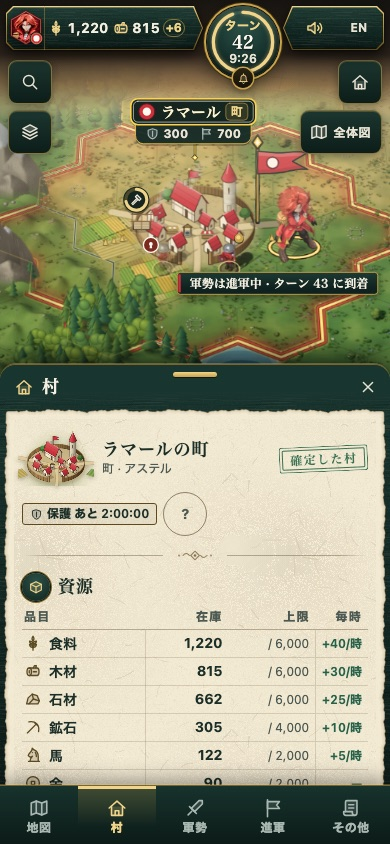
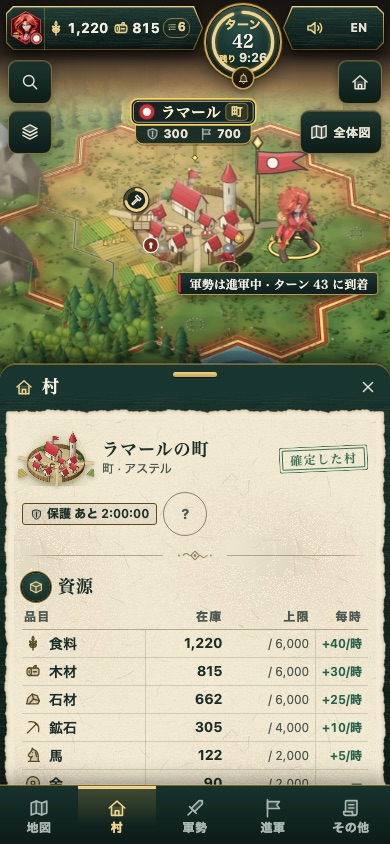
Uplift round 4: HUD, text and effects written up; gallery after-shots
07-HUD-TEXT-FX records what was changed for each of the ten ranked
findings, what turned up along the way, the checks run after the last
change (web 934, interaction 29, matrix 78, states 39, frame times as
before), and what was left open. The gallery's after-shots are from
the current client.

diff --git a/docs/design/uplift/07-HUD-TEXT-FX.ja.md b/docs/design/uplift/07-HUD-TEXT-FX.ja.md
@@ -32,4 +32,44 @@
 | 9 | ガイドの札が長く、スマホで切れる | 次にすることが読めない |
 | 10 | 資源の帯の「+3」が何かわからない | 収入か、隠れた資源か |
 
-以下、直したものと確かめたことを書き足していく。
+## 直したもの
+
+どれも【実装あり】。ルール・数・隠れた情報の扱いは変えていない（見せ方と言い方だけ）。
+
+| 順 | 直したこと | 主な場所 |
+|---|---|---|
+| 1 | 予測は点線の枠と予測の色、本文の太さの数字に。「構えを比べる（予測）」「構えごとに、ルールで試した見込み」「8回中8回」。出せないときは「見込みはまだ出せません」 | `hud/marchcard.mjs`、`uplift.css` |
+| 2 | 村を失う／奪う／昇格は、帯（「村を失いました」「〇〇の村になりました」／「村を奪いました」「〇〇から」／「町になりました」「村のまわりが広がりました」）＋揺れ・火花・太鼓。負けの帯は灰の文字と赤の線、勝ちは金。その間、普段の説明の札は出さない | `fx/stage.mjs`、`app.mjs` checkMoments |
+| 3 | 文字盤に「残り」を添えた（「残り 9:26」） | `app.mjs` dialMarkup、`frontier.css` |
+| 4 | ターンの帯は「ターン 42」＋小さく「新しいターン」、2.6 秒→1.6 秒 | `fx/stage.mjs` |
+| 5 | 演出の札は名札の上へ逃げる。戦いの見出しは損害の数の上へ。留守の札は軍勢が立つ間は出さない | `fx/effects.mjs`、`fx/battle.mjs`、`map/fmap.mjs` |
+| 6 | 見直したら、断られた送信は「送られていません」の札と「もう一度」で区別できていた（最初の写真が早すぎただけ）。変更なし | — |
+| 7 | 手札の語：「あと 25:00」「控え 400人」「最大 400人」「足りない 3」。建設の枠は、使っている枠に金の点（始めた直後でも「○○○」＝全部空き、に見えない） | `hud/hand.mjs`、`frontier.css` |
+| 8 | 報告：題は場所（上に小さく「衝突の報告」、スマホでは引き出しの見出しと重ねない）。国の一言は判の言葉に合わせる（「着いた」の判の下で「見事な勝利だ」と言っていた）。「戦場に残った」を二度言わない。紙を閉じて下に戻るボタンは「戻る」（引き出しの × と同じ「閉じる」が二つあった） | `screens/report.mjs` |
+| 9 | ガイドは動詞が主役：「ガイド 2/5｜探索する土地を選ぶ」。段の題（「建設を待つ間に、周りを知ろう」）はツールチップと手順の一覧へ。「ほか N」は小見出しの行に移し、英語のスマホでも切れない | `hud/hud.mjs`、`app.mjs` |
+| 10 | 「+3」→「ほか 3」。スマホは一覧の印＋数（幅が足りず資源が一つ減るのを避ける） | `hud/hud.mjs`、`frontier.css` |
+
+見ているうちに見つけて直したもの：
+
+- 村を手に取っている間（広い画面）、左下の村の札を引っ込めた。同じ高さに同じ村の名前が二つあった（スマホは前からそう）。
+- 演出の帯の真ん中三分の一をほぼ不透明に。地図の町の名札が「村を失いました」の字の後ろに透けていた。
+- 進軍の準備で、スクロールした後も「行を切らないための余白」が残り、封の上に 95 px の穴と切れた行ができていた。スクロールしたら余白を外す（`hud/drawer.mjs` releaseRows）。
+- 上のガイドの「ほか 2」が、やることの数 3 に追いつかなかった（描き直しの鍵に数が入っていなかった）。
+- 村の引き出しで、毎時の増減と収穫の説明が二段落に分かれていたのを一行に。
+- 押せない控えめなボタン（行軍中の軍勢の「解散」）が、下線付きのまま押せそうに見えていた。下線を外して薄く。
+
+## 確かめたこと
+
+最後の変更の後にまとめて流した：
+
+- 速い試験（web）934 件すべて成功。途中で一度だけ、画面と関係のない送信の試験（`program refusals come back by name…`）が時間の都合で落ちたが、単独では 8 / 8 成功、最後の通しでも成功。
+- 操作の試験 29 / 29、写真と axe の行列 78 / 78、状態ごとの確認（`uplift-states.mjs`）39 / 39。
+- 描画の速さ（`uplift-perf.mjs`）：静止 25 ms、ドラッグ p50 26 ms、範囲を照らす full 137 ms。3 回目と同じ。
+- 演出の見本（`uplift-fx.mjs`）を PC・スマホ・動きを減らす設定で撮り、帯が読めること、負けと勝ちが色だけでなく言葉で分かれることを見た。
+- 試験の側で直したもの：ターンの帯の言い方、資源の帯の「ほか N」、ガイドの行、報告の題と国の一言（変えた言葉を固定し直した。判の「確かめていません」の下で勝利の一言を言わないことも足した）。
+
+## 残したこと
+
+- 【未決定】進軍の準備の一行目「結果の目安まで 40:26（ゲーム内）」は、何の時刻かが一目で伝わりにくい。言い方の案はあるが、ルールの言葉（ゲーム内時間）に触れるので、決める人に聞いてから。
+- 【検証する候補】広い画面で手札を開いた時の、ドックの小さな印だけの帯（名前なし）。いまは名前を読み上げ用に残している。目で迷うかは実際に遊んで見たい。
+- 【提案】負けの帯の後に、何が残ったか（ほかの村、軍勢）を一行で示す。記録から言えることだけで作れるが、新しい文言の設計が要る。
